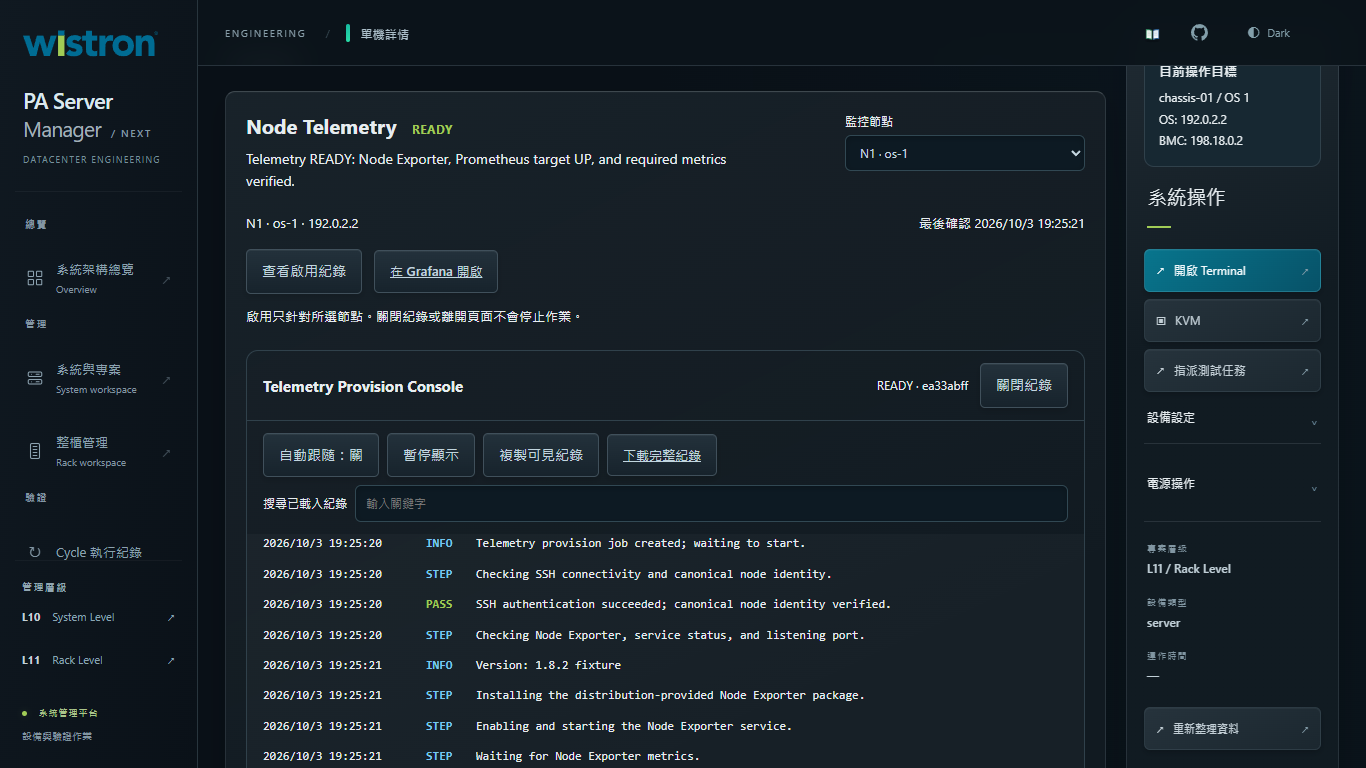
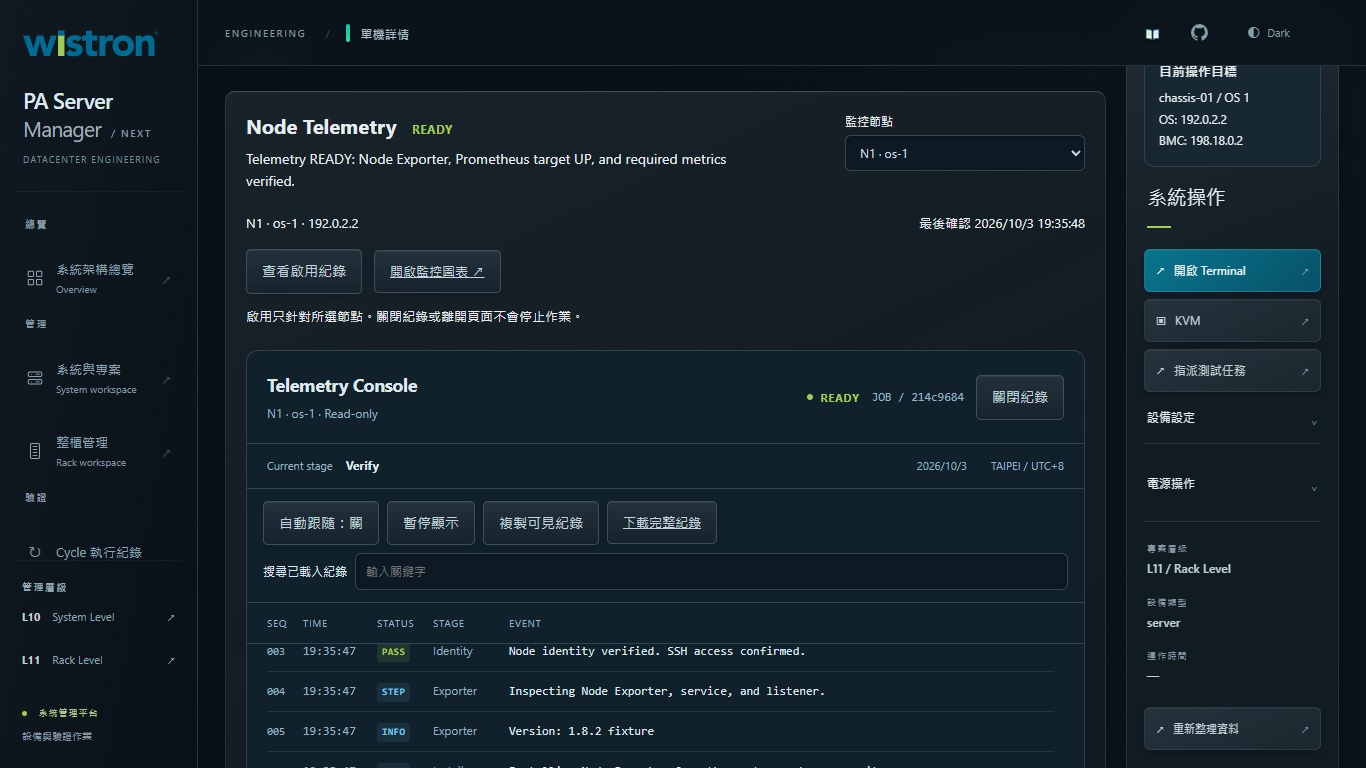
Refine telemetry console presentation and clarify dashboard action

diff --git a/app/static/js/telemetry-provision.js b/app/static/js/telemetry-provision.js
@@ -2,6 +2,8 @@
 (() => {
   'use strict';
   const time = value => value ? new Date(value * 1000).toLocaleString('zh-TW', {timeZone:'Asia/Taipei',hour12:false}) : '尚未確認';
+  const clock = value => new Date(value * 1000).toLocaleTimeString('en-GB',{timeZone:'Asia/Taipei',hour12:false});
+  const stage = value => ({QUEUED:'Queue',IDENTITY:'Identity',DETECT:'Exporter',INSTALL:'Install',START:'Service',EXPORTER:'Metrics',REGISTER:'Target',VERIFY:'Verify',READY:'Ready',ERROR:'Error',INTERRUPTED:'Interrupted',DEGRADED:'Degraded',UNREACHABLE:'Connection'}[value] || value || 'System');
   const active = job => job && ['QUEUED','PROVISIONING'].includes(job.state);
   const key = () => globalThis.crypto?.randomUUID?.() || `telemetry-${Date.now()}-${Math.random().toString(36).slice(2)}`;
   let current,lastView;
@@ -12,10 +14,12 @@
       this.closed=false; this.consoleOpen=false; this.name=root.dataset.system; this.node=null; this.job=null;
       root.innerHTML=`<header class="tp-heading"><div><h3>Node Telemetry <span data-state class="tp-state">載入中</span></h3><p data-detail aria-live="polite">正在取得節點設定…</p></div><label class="tp-node">監控節點<select aria-label="Telemetry 節點" data-node><option value="">選擇節點</option></select></label></header>
         <div class="tp-context"><span data-target></span><span data-time></span></div>
-        <div class="tp-actions"><button class="btn primary" data-enable disabled>啟用 Telemetry</button><button class="btn" data-console hidden>查看啟用紀錄</button><a class="btn" data-grafana hidden target="_blank" rel="noopener">在 Grafana 開啟</a></div>
+        <div class="tp-actions"><button class="btn primary" data-enable disabled>啟用 Telemetry</button><button class="btn" data-console hidden>查看啟用紀錄</button><a class="btn" data-grafana hidden target="_blank" rel="noopener" title="開啟此節點的 Grafana 監控圖表，不執行安裝">開啟監控圖表 ↗</a></div>
         <p class="tp-note" data-notice>啟用只針對所選節點。原有效能資料與管理功能可繼續使用。</p>
-        <section class="tp-console" hidden aria-label="Telemetry 啟用紀錄"><header><h4>Telemetry Provision Console</h4><span data-job></span><button class="btn" data-close>關閉紀錄</button></header>
+        <section class="tp-console" hidden aria-label="Telemetry 啟用紀錄"><header><div class="tp-console-title"><h4>Telemetry Console</h4><p data-console-target>Read-only execution log</p></div><span class="tp-session" data-session>IDLE</span><span data-job></span><button class="btn" data-close>關閉紀錄</button></header>
+          <div class="tp-runline"><span>Current stage <strong data-stage>Queue</strong></span><span data-log-date></span><span>TAIPEI / UTC+8</span></div>
           <div class="tp-tools"><button class="btn" data-follow aria-pressed="true">自動跟隨：開</button><button class="btn" data-pause aria-pressed="false">暫停顯示</button><label>搜尋已載入紀錄<input type="search" data-search placeholder="輸入關鍵字"></label><button class="btn" data-copy>複製可見紀錄</button><a class="btn" data-download>下載完整紀錄</a></div>
+          <div class="tp-log-columns" aria-hidden="true"><span>SEQ</span><span>TIME</span><span>STATUS</span><span>STAGE</span><span>EVENT</span></div>
           <div class="tp-log" role="region" tabindex="0" aria-label="唯讀啟用紀錄，台灣時間 UTC+8"></div><footer><span data-connection>正在連線</span><button class="btn" data-latest hidden>跳至最新輸出</button><span>UTC+8 · 僅顯示最近 2,000 筆</span></footer>
         </section><div class="tp-dashboard" hidden><p>若無法顯示，請使用「在 Grafana 開啟」確認登入及嵌入設定。</p></div>`;
       this.$=selector=>root.querySelector(selector);
@@ -77,7 +81,12 @@
       this.$('[data-notice]').textContent=node.configured?'啟用只針對所選節點。關閉紀錄或離開頁面不會停止作業。':'中央監控連線尚未設定；原有效能資料仍可使用。';
       if(node.job?.job_id!==this.job?.job_id){this.resetLog();this.requestKey=null;}
       this.job=node.job;this.$('[data-console]').hidden=!this.job;
-      if(this.job){this.$('[data-job]').textContent=this.job.state+' · '+this.job.job_id.slice(0,8);this.$('[data-download]').href='/api/telemetry/jobs/'+encodeURIComponent(this.job.job_id)+'/log';}
+      if(this.job){this.$('[data-job]').textContent='JOB / '+this.job.job_id.slice(0,8);this.$('[data-download]').href='/api/telemetry/jobs/'+encodeURIComponent(this.job.job_id)+'/log';
+        this.$('[data-console-target]').textContent=`${node.slot} · ${node.hostname||node.os_ip} · Read-only`;
+        this.$('[data-session]').textContent=this.job.state==='PROVISIONING'?'RUNNING':this.job.state;
+        this.$('[data-session]').dataset.state=this.job.state;
+        this.$('[data-stage]').textContent=stage(this.job.current_step);
+        this.$('[data-log-date]').textContent=time(this.job.created_at).split(' ')[0];}
       this.dashboard(node);
     }
     dashboard(node) {
@@ -87,7 +96,7 @@
       const theme=document.documentElement.dataset.theme||'light';url.searchParams.set('theme',theme);
       link.href=url.href;link.hidden=false;container.hidden=false;
       let frame=container.querySelector('iframe');
-      if(!frame){const hint=document.createElement('p');hint.textContent='若無法顯示，請在 Grafana 開啟，確認登入與嵌入設定。';frame=document.createElement('iframe');frame.title='所選節點的 Grafana Telemetry';frame.loading='lazy';container.replaceChildren(hint,frame);}
+      if(!frame){const hint=document.createElement('p');hint.textContent='圖表由 Grafana 提供。若未顯示，請使用「開啟監控圖表」確認登入狀態。';frame=document.createElement('iframe');frame.title='所選節點的 Grafana Telemetry';frame.loading='lazy';container.replaceChildren(hint,frame);}
       if(frame.src!==url.href)frame.src=url.href;
     }
     async enable() {
@@ -120,10 +129,13 @@
     }
     pauseState(){this.$('[data-pause]').textContent=this.paused?'繼續顯示':'暫停顯示';this.$('[data-pause]').setAttribute('aria-pressed',String(this.paused));}
     visible(){const query=this.$('[data-search]').value.toLocaleLowerCase();return (this.paused?this.pauseRows:this.rows).filter(row=>this.line(row).toLocaleLowerCase().includes(query));}
-    line(row){return `${time(row.timestamp)} [${row.level}] ${row.message}`;}
+    line(row){return `${time(row.timestamp)} [${row.level}] [${stage(row.step)}] ${row.message}`;}
     renderLog() {
       const log=this.$('.tp-log'),top=log.scrollTop;const fragment=document.createDocumentFragment(),visible=this.visible();
-      for(const row of visible){const line=document.createElement('div');line.className='tp-log-row';line.dataset.level=row.level;const stamp=document.createElement('time'),level=document.createElement('b'),text=document.createElement('span');stamp.textContent=time(row.timestamp);level.textContent=row.level;text.textContent=row.message;line.append(stamp,level,text);fragment.append(line);}
+      for(const row of visible){const line=document.createElement('div');line.className='tp-log-row';line.dataset.level=row.level;
+        const seq=document.createElement('span'),stamp=document.createElement('time'),level=document.createElement('b'),phase=document.createElement('span'),text=document.createElement('span');
+        seq.className='tp-seq';seq.textContent=String(row.sequence).padStart(3,'0');stamp.textContent=clock(row.timestamp);stamp.title=time(row.timestamp)+' UTC+8';stamp.dateTime=new Date(row.timestamp*1000).toISOString();
+        level.textContent=row.level;phase.className='tp-phase';phase.textContent=stage(row.step);text.className='tp-message';text.textContent=row.message;line.append(seq,stamp,level,phase,text);fragment.append(line);}
       // Selection must remain intact while a user copies the current log.
       const selection=getSelection();if(selection?.anchorNode&&log.contains(selection.anchorNode)&&!selection.isCollapsed)return;
       log.replaceChildren(fragment);this.viewLines=visible.map(row=>this.line(row));if(this.follow)this.bottom();else{log.scrollTop=top;this.$('[data-latest]').hidden=false;}

diff --git a/app/static/css/telemetry-provision.css b/app/static/css/telemetry-provision.css
@@ -13,17 +13,38 @@
 .tp-workspace select,.tp-workspace input{color:inherit;background:var(--card,var(--bg));border:1px solid var(--border);padding:8px 10px;border-radius:6px;font:inherit;max-width:100%}
 .tp-context{justify-content:space-between;margin:20px 0 16px;font-variant-numeric:tabular-nums;font-size:13px;overflow-wrap:anywhere}
 .tp-note{font-size:13px;margin:12px 0 0}
-.tp-console{margin-top:24px;border:1px solid var(--border);border-radius:12px;overflow:hidden}
+.tp-console{--tp-console-bg:#f4f8fa;--tp-console-ink:#153b4c;--tp-console-muted:#526c79;--tp-console-line:#d5e1e6;margin-top:24px;border:1px solid var(--border);border-radius:12px;overflow:hidden;background:var(--tp-console-bg);color:var(--tp-console-ink)}
+[data-theme="dark"] .tp-console{--tp-console-bg:#10212b;--tp-console-ink:#dceaf0;--tp-console-muted:#98b4c3;--tp-console-line:#304652}
 .tp-console header,.tp-tools,.tp-console footer{padding:12px 16px}
-.tp-console header{border-bottom:1px solid var(--border)}
-.tp-console h4{font-size:15px;margin:0;flex:1}
-.tp-console [data-job]{font-variant-numeric:tabular-nums;font-size:12px}
+.tp-console header{border-bottom:1px solid var(--tp-console-line);padding:20px}
+.tp-console-title{flex:1;min-width:190px}
+.tp-console h4{font-size:18px;margin:0;font-weight:650;letter-spacing:-.02em;color:var(--tp-console-ink)}
+.tp-console-title p{font-size:12px;margin:4px 0 0;color:var(--tp-console-muted)}
+.tp-console [data-job]{font:12px ui-monospace,Consolas,monospace;font-variant-numeric:tabular-nums;color:var(--tp-console-muted)}
+.tp-session{display:inline-flex;align-items:center;gap:8px;font-size:11px;font-weight:700;letter-spacing:.06em;color:var(--tp-info)}
+.tp-session::before{content:'';width:6px;height:6px;border-radius:50%;background:currentColor}
+.tp-session[data-state="PROVISIONING"]::before{animation:tp-running 1.8s ease-in-out infinite}
+.tp-session[data-state="READY"]{color:var(--tp-good)}
+.tp-session[data-state="ERROR"],.tp-session[data-state="UNREACHABLE"],.tp-session[data-state="INTERRUPTED"]{color:var(--tp-fail)}
+.tp-session[data-state="DEGRADED"]{color:var(--tp-warn)}
+.tp-runline{display:flex;flex-wrap:wrap;align-items:center;gap:12px 24px;padding:12px 20px;border-bottom:1px solid var(--tp-console-line);font-size:11px;color:var(--tp-console-muted)}
+.tp-runline>span:first-child{margin-right:auto}
+.tp-runline strong{margin-left:10px;color:var(--tp-console-ink);font-size:12px}
 .tp-tools{gap:8px}
 .tp-tools label{display:grid;grid-template-columns:max-content minmax(100px,1fr);align-items:center;gap:8px;font-size:12px;flex:1;min-width:260px}
 .tp-tools input{min-width:100px;width:100%}
-.tp-log{height:340px;overflow:auto;padding:12px 16px;background:color-mix(in srgb,var(--text) 3%,transparent);scrollbar-color:var(--tp-info) transparent;scrollbar-width:thin}
-.tp-log-row{display:grid;grid-template-columns:165px 48px minmax(0,1fr);gap:12px;padding:5px 0;font:12px/1.7 ui-monospace,Consolas,monospace;overflow-wrap:anywhere}
-.tp-log-row time{font-variant-numeric:tabular-nums;color:var(--text)}
+.tp-log{height:360px;overflow:auto;padding:0 20px 12px;scrollbar-gutter:stable;scrollbar-color:var(--tp-info) transparent;scrollbar-width:thin}
+.tp-log-row,.tp-log-columns{display:grid;grid-template-columns:36px 76px 56px 84px minmax(0,1fr);gap:12px;align-items:baseline}
+.tp-log-columns{padding:12px 20px;border-block:1px solid var(--tp-console-line);font-size:10px;letter-spacing:.07em;color:var(--tp-console-muted)}
+.tp-log-row{padding:9px 0;border-bottom:1px solid color-mix(in srgb,var(--tp-console-line) 55%,transparent);font:12px/1.7 ui-monospace,Consolas,monospace;overflow-wrap:anywhere}
+.tp-log-row time{font-variant-numeric:tabular-nums;color:var(--tp-console-muted)}
+.tp-seq{color:var(--tp-console-muted);font-size:11px}
+.tp-phase{font:11px/1.7 system-ui,sans-serif;color:var(--tp-console-muted)}
+.tp-message{color:var(--tp-console-ink)}
+.tp-log-row b{font-size:10px;letter-spacing:.03em;border-radius:3px;padding:1px 5px;background:color-mix(in srgb,var(--tp-info) 9%,transparent);width:fit-content}
+.tp-log-row[data-level="PASS"] b{background:color-mix(in srgb,var(--tp-good) 12%,transparent)}
+.tp-log-row[data-level="WARN"] b{background:color-mix(in srgb,var(--tp-warn) 12%,transparent)}
+.tp-log-row[data-level="FAIL"] b{background:color-mix(in srgb,var(--tp-fail) 12%,transparent)}
 .tp-workspace .tp-log-row b{color:var(--tp-info)!important}
 .tp-workspace .tp-log-row[data-level="PASS"] b{color:var(--tp-good)!important}
 .tp-workspace .tp-log-row[data-level="WARN"] b{color:var(--tp-warn)!important}
@@ -34,4 +55,6 @@
 .tp-dashboard iframe{width:100%;height:680px;border:0;background:var(--bg)}
 .tp-workspace :focus-visible{outline:2px solid var(--tp-info);outline-offset:3px}
 .tp-workspace ::selection{background:var(--tp-info);color:var(--bg)}
-@media(max-width:1450px){.tp-workspace{padding:20px}.tp-log-row{grid-template-columns:155px 42px minmax(0,1fr);gap:8px}.tp-tools label{flex-basis:100%;order:5}}
+@keyframes tp-running{0%,100%{opacity:1}50%{opacity:.35}}
+@media(prefers-reduced-motion:reduce){.tp-session[data-state="PROVISIONING"]::before{animation:none}}
+@media(max-width:1450px){.tp-workspace{padding:20px}.tp-log-row,.tp-log-columns{grid-template-columns:28px 66px 48px 68px minmax(0,1fr);gap:8px}.tp-tools label{flex-basis:100%;order:5}}

diff --git a/app/static/index.html b/app/static/index.html
@@ -20,7 +20,7 @@
 <link rel="stylesheet" href="/static/css/workspace-ux.css?v=20261001-teltime1">
 <link rel="stylesheet" href="/static/css/topology.css?v=20260924-network-led2">
 <link rel="stylesheet" href="/static/css/cycle.css?v=20261003-lc3"><link rel="stylesheet" href="/static/css/cycle-workspace.css?v=20261003-ui-adapt2">
-<link rel="stylesheet" href="/static/css/telemetry-provision.css?v=20261003-tp1">
+<link rel="stylesheet" href="/static/css/telemetry-provision.css?v=20261003-tp2">
 </head>
 <body>
 
@@ -317,7 +317,7 @@ window.SPX_KVM_LAUNCH_API =
 </script>
 <script src="/static/js/product.js?v=20261001-sysworkspace1"></script>
 <script src="/static/js/system-inspection.js?v=20261003-shared-validation"></script>
-<script src="/static/js/telemetry-provision.js?v=20261003-tp1"></script>
+<script src="/static/js/telemetry-provision.js?v=20261003-tp2"></script>
 <script src="/static/js/product-detail.js?v=20261003-telemetry1"></script>
 <script src="/static/js/core-scene.js?v=20260924-cooling1"></script>
 <script src="/static/js/cinematic.js?v=20260924gb300-insertion2"></script>

diff --git a/integration/telemetry_provision.py b/integration/telemetry_provision.py
@@ -120,7 +120,7 @@ class ProvisionService:
             if target['revision']!=job['binding'] or target['project']!=job['project']: raise ProvisionFailure('IDENTITY_REQUIRES_CONFIRMATION: Node binding changed while queued.')
             wire=self.transport(target)
             node=Target(tray=target.get('tray',''),node=target.get('node',target['node_id']),os_ip=target['os_ip'],bmc_ip=target.get('bmc_ip',''))
-            self.store.step(job_id,'IDENTITY','Checking SSH connectivity and canonical node identity.')
+            self.store.step(job_id,'IDENTITY','Verifying SSH access and node identity.')
             observation=collect_identity(Collector(wire,node),target,include_bmc=False)
             if observation['os_status']!='SUCCESS':
                 raise ProvisionFailure('OS identity could not be verified over SSH. Stored identity and other functions are unchanged.','UNREACHABLE')
@@ -131,7 +131,7 @@ class ProvisionService:
             allowed=outcome.get('binding_revision',target['revision'])
             if current['revision']!=allowed: raise ProvisionFailure('IDENTITY_REQUIRES_CONFIRMATION: Node binding changed after identity synchronization.')
             target=current
-            self.store.step(job_id,'IDENTITY','SSH authentication succeeded; canonical node identity verified.','PASS')
+            self.store.step(job_id,'IDENTITY','Node identity verified. SSH access confirmed.','PASS')
             if outcome['status']=='AUTO_SYNC': self.store.step(job_id,'IDENTITY','Hostname updated through Shared Identity Auto Sync.','INFO')
             def command(step,text,cmd,timeout=30):
                 self.binding(target)
@@ -143,13 +143,13 @@ class ProvisionService:
                     detail=wire.redact(result.output) if hasattr(wire,'redact') else result.output
                     raise ProvisionFailure(f'{text} failed (exit {result.code}): {detail}',state)
                 return result.output
-            facts=parse_detection(command('DETECT','Checking Node Exporter, service status, and listening port.',detection_command(self.config.exporter_port)))
+            facts=parse_detection(command('DETECT','Inspecting Node Exporter, service, and listener.',detection_command(self.config.exporter_port)))
             exporter,detail=self.monitor.exporter(target)
             self.store.step(job_id,'DETECT','Version: '+facts.get('VERSION','not available'),'INFO')
             if exporter=='OTHER' or (exporter!='READY' and facts.get('LISTENER')):
                 raise ProvisionFailure('Port is in use and cannot be verified as a healthy Node Exporter. No process was stopped. '+facts.get('LISTENER',detail))
             if exporter=='READY':
-                self.store.step(job_id,'DETECT','Existing Node Exporter is healthy. Keeping the current installation.','PASS')
+                self.store.step(job_id,'DETECT','Node Exporter verified. Existing installation retained.','PASS')
             else:
                 unit=facts.get('UNIT')
                 if unit:
@@ -161,7 +161,7 @@ class ProvisionService:
                     if facts.get('PLATFORM') not in ('ubuntu','debian') or facts.get('SYSTEMD')!='yes':
                         raise ProvisionFailure('Automatic installation supports Ubuntu/Debian with systemd. On other platforms, prepare Node Exporter before enabling Telemetry.')
                     if self.config.exporter_port!=9100: raise ProvisionFailure('New installations use port 9100. Prepare the exporter service first when using a custom port.')
-                    command('INSTALL','Installing the distribution-provided Node Exporter package.',
+                    command('INSTALL','Installing Node Exporter from the system package repository.',
                             'env DEBIAN_FRONTEND=noninteractive apt-get update && env DEBIAN_FRONTEND=noninteractive apt-get install -y --no-install-recommends prometheus-node-exporter',300)
                     unit='prometheus-node-exporter.service'
                     command('START','Enabling and starting the Node Exporter service.','systemctl enable --now '+unit,60)
@@ -172,9 +172,9 @@ class ProvisionService:
                     if self.stop_event.wait(1): raise ProvisionFailure('Worker stopping. Recheck the exporter status before continuing.','INTERRUPTED')
                 if exporter!='READY': raise ProvisionFailure('Node Exporter metrics remain unavailable after the service start.','DEGRADED')
             self.binding(target)
-            self.store.step(job_id,'REGISTER','Registering the canonical node as a Prometheus target.')
+            self.store.step(job_id,'REGISTER','Publishing the node target to Prometheus.')
             register_target(self.config,target)
-            self.store.step(job_id,'VERIFY','Waiting for Prometheus target UP and required metrics.')
+            self.store.step(job_id,'VERIFY','Awaiting target UP and fresh required metrics.')
             deadline=time.monotonic()+self.config.verify_seconds
             while True:
                 self.binding(target);state,detail=self.monitor.health(target)

diff --git a/docs/TELEMETRY_ACCEPTANCE.md b/docs/TELEMETRY_ACCEPTANCE.md
@@ -1,5 +1,23 @@
 # Telemetry provision acceptance — 2026-10-03
 
+## Console refinement follow-up
+
+After `b17a1c1`, refined the scoped Wistron Console presentation and English
+messages. Added sequence/time/status/stage columns, target context and a
+reduced-motion-aware running indicator. Grafana link is now **開啟監控圖表**;
+**啟用 Telemetry** remains the only installation entry. No command, API payload,
+job state transition or Cycle behavior changed.
+
+This follow-up reran the 30 provision tests (30 PASS), the production browser
+flow at both desktop sizes/themes (PASS), and paused copy/remount/node isolation
+(PASS). The browser now actually opens the Grafana link and verifies no extra
+provision POST occurs. Screenshots and the local video/trace were refreshed.
+The first pause test attempt exposed a test timing race: its reference copy was
+taken before Pause while backlog was still arriving. The reference is now taken
+after Pause; new arrivals and parent-remount equality assertions remain intact.
+The broader suite counts below belong to the original integration verification,
+not a newly repeated full suite for this presentation-only follow-up.
+
 Base: `f361560a73128e0ad5075e0835e4773ff12db0e7`.
 Branch: `codex/system-inspection-ux`. The delivery commit contains this report;
 use `git log -1` for its SHA. All verification below used isolated Windows

diff --git a/PROJECT_STATUS.md b/PROJECT_STATUS.md
@@ -1,5 +1,16 @@
 # PROJECT_STATUS — PA Cycle Lab native Next integration
 
+## 2026-10-03 Telemetry Console presentation refinement
+
+- Clarified Grafana navigation as **開啟監控圖表**; installation remains
+  **啟用 Telemetry**. Verified opening the chart sends no provision request.
+- Refined the scoped Wistron Console: English messages, aligned sequence/time/
+  status/stage/event columns, target context and restrained running indicator.
+  UTC+8, read-only behavior, pause/copy, reconnect and bounded history remain.
+- This follow-up: 30 provision tests PASS, desktop browser flow and console
+  isolation PASS. Updated light/dark screenshots and local video/trace.
+  No install commands, API contracts, Cycle behavior or production services changed.
+
 ## 2026-10-03 Optional per-node Telemetry provisioning
 
 Base `f361560a73128e0ad5075e0835e4773ff12db0e7`; same isolated

diff --git a/docs/TELEMETRY_PROVISION.md b/docs/TELEMETRY_PROVISION.md
@@ -119,6 +119,10 @@ Network IO runs outside SQLite write transactions. Step intent is committed
 before each mutation. Evidence failure prevents that step from being dispatched.
 
 Console events are English, rendered as text, and masked before persistence.
+The Console separates sequence, Taipei time, status, stage and event text.
+Its running indicator animates only while provisioning and respects reduced
+motion. **啟用 Telemetry** initiates provisioning; **開啟監控圖表** opens the
+selected Node's Grafana dashboard and never initiates installation.
 Raw remote failure evidence retains its original content/language after masking.
 Time is stored as epoch seconds and displayed/downloaded in UTC+8. Event reads
 use `after_seq`, at most 500 per response. Browser rendering is capped at 2,000
